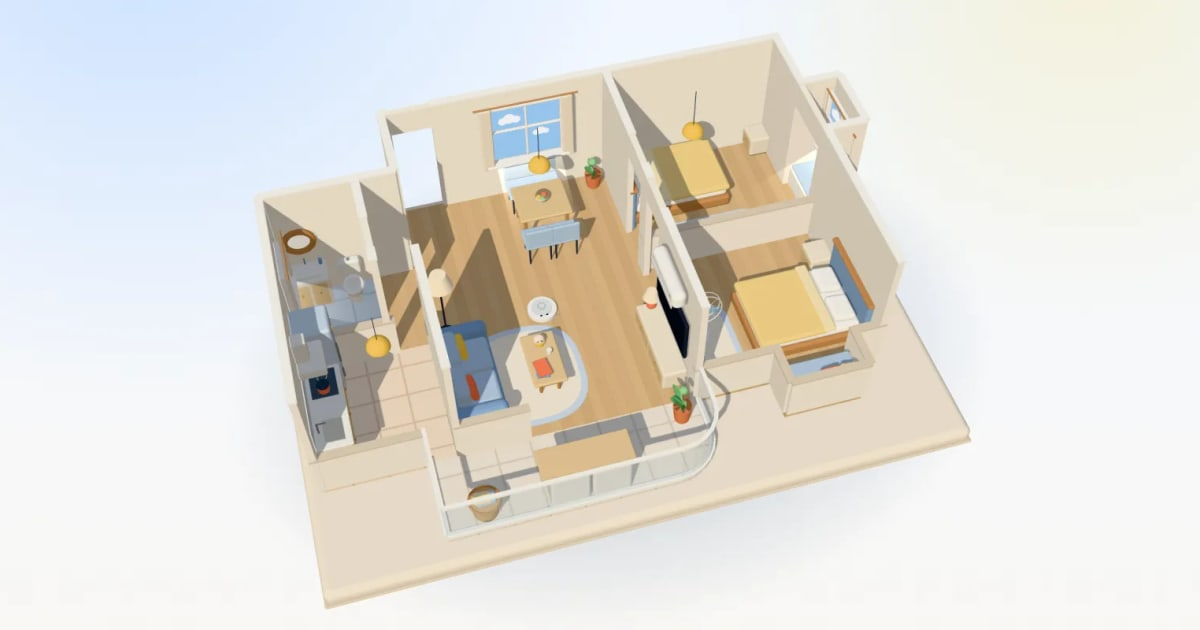
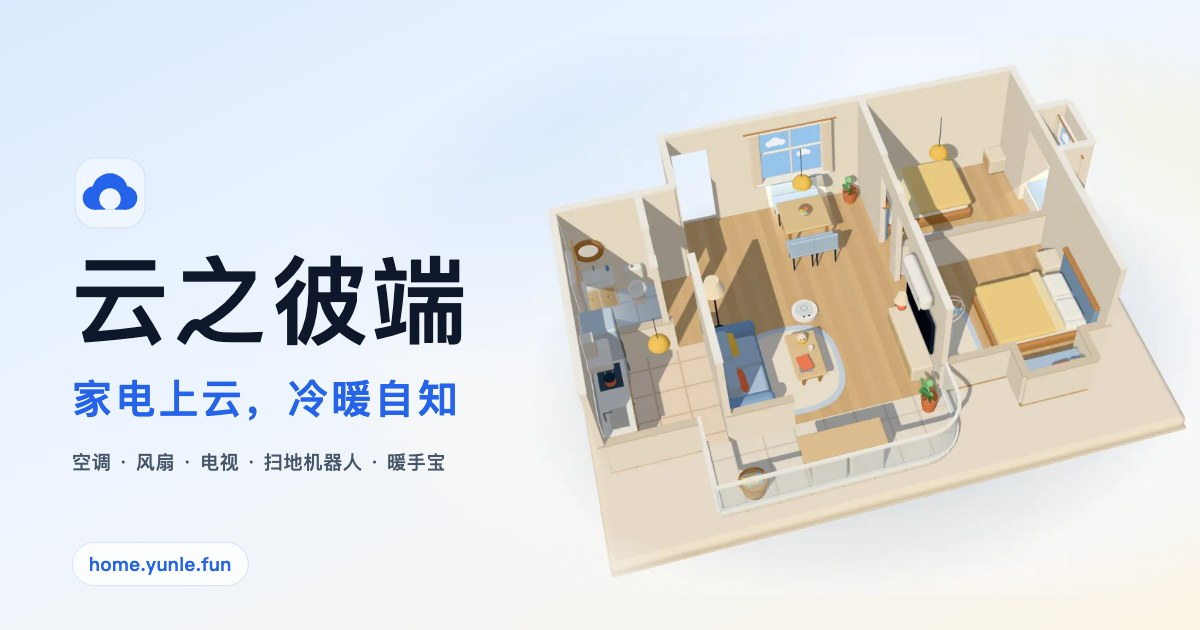
feat(web): share card and per-page link previews; fix device page hydration
- Render a 1200x630 share card (poster, brand mark, 云之彼端, tagline
  家电上云，冷暖自知) with scripts/export-og-image.mjs.
- useShareMeta gives /market and /items/[device] their own og/twitter
  title, description and og:url; the card stays site-wide in app.head.
- Device pages logged "Hydration completed but contains mismatches": the
  Worker's SSR rendered placeholders for plugin glyphs and controls loaded
  through defineAsyncComponent. The registry now keeps loaded modules and
  returns them directly, and the device page awaits its control, so the
  server HTML matches the first client render.

diff --git a/devices/registry.ts b/devices/registry.ts
@@ -24,6 +24,9 @@ export function defineDevicePlugin<K extends DeviceKind>(plugin: DevicePlugin<K>
 
 const plugins = new Map<DeviceKind, AnyDevicePlugin>()
 const asyncComponents = new Map<string, Component>()
+// Modules already loaded render directly: the Worker's SSR does not wait for
+// async wrappers, so only these match between server HTML and hydration.
+const loadedComponents = new Map<string, Component>()
 
 /**
  * Register a device plugin. Registering the same plugin object twice is a
@@ -46,9 +49,11 @@ export function registerDevicePlugin(plugin: AnyDevicePlugin): void {
  */
 export function unregisterDevicePlugin(kind: DeviceKind): void {
   plugins.delete(kind)
-  for (const key of asyncComponents.keys()) {
-    if (key.startsWith(`${kind}:`))
-      asyncComponents.delete(key)
+  for (const cache of [asyncComponents, loadedComponents]) {
+    for (const key of cache.keys()) {
+      if (key.startsWith(`${kind}:`))
+        cache.delete(key)
+    }
   }
 }
 
@@ -79,6 +84,9 @@ export function resolveDevicePluginComponent(kind: DeviceKind, slot: DevicePlugi
   if (!loader)
     return null
   const key = `${kind}:${slot}`
+  const loaded = loadedComponents.get(key)
+  if (loaded)
+    return loaded
   let component = asyncComponents.get(key)
   if (!component) {
     component = markRaw(defineAsyncComponent({ loader, delay: 120 }))
@@ -88,11 +96,26 @@ export function resolveDevicePluginComponent(kind: DeviceKind, slot: DevicePlugi
 }
 
 /**
- * Warm the module cache for a UI slot of every plugin, so the first render
- * resolves within a microtask instead of waiting on the network.
+ * Load one plugin UI slot so later renders use the component directly. Await
+ * it before rendering a slot that must match between SSR and hydration.
+ *
+ * @param kind - The device kind
+ * @param slot - The UI slot to load
+ */
+export async function preloadDevicePluginComponent(kind: DeviceKind, slot: DevicePluginSlot): Promise<void> {
+  const loader = plugins.get(kind)?.components[slot]
+  if (!loader)
+    return
+  const module = await loader()
+  loadedComponents.set(`${kind}:${slot}`, markRaw((module as { default?: Component }).default ?? module))
+}
+
+/**
+ * Load a UI slot of every plugin, so the first render uses the components
+ * directly instead of waiting on the network.
  *
  * @param slot - The UI slot to preload
  */
 export async function preloadDevicePluginComponents(slot: DevicePluginSlot): Promise<void> {
-  await Promise.all(listDevicePlugins().map(plugin => plugin.components[slot]?.()))
+  await Promise.all(listDevicePlugins().map(plugin => preloadDevicePluginComponent(plugin.manifest.kind, slot)))
 }

diff --git a/nuxt.config.ts b/nuxt.config.ts
@@ -1,8 +1,10 @@
 import { fileURLToPath } from 'node:url'
 import { pwa } from './config/pwa'
-import { appDescription, appName } from './constants/index'
+import { appDescription, appName, appTagline } from './constants/index'
 
 const siteOrigin = (process.env.NUXT_PUBLIC_SITE_ORIGIN || 'https://home.yunle.fun').replace(/\/+$/, '')
+// Pages override the title and description with useShareMeta; the card is shared.
+const shareDescription = `${appTagline}。${appDescription}，空调、风扇、电视、扫地机器人与暖手宝都在云上。`
 
 export default defineNuxtConfig({
   compatibilityDate: '2026-07-16',
@@ -109,14 +111,14 @@ export default defineNuxtConfig({
         { property: 'og:site_name', content: appName },
         { property: 'og:locale', content: 'zh_CN' },
         { property: 'og:title', content: appName },
-        { property: 'og:description', content: appDescription },
+        { property: 'og:description', content: shareDescription },
         { property: 'og:image', content: `${siteOrigin}/og-image.jpg` },
         { property: 'og:image:width', content: '1200' },
         { property: 'og:image:height', content: '630' },
-        { property: 'og:image:alt', content: '云之彼端家园的 3D 户型' },
+        { property: 'og:image:alt', content: `${appName}：${appTagline}` },
         { name: 'twitter:card', content: 'summary_large_image' },
         { name: 'twitter:title', content: appName },
-        { name: 'twitter:description', content: appDescription },
+        { name: 'twitter:description', content: shareDescription },
         { name: 'twitter:image', content: `${siteOrigin}/og-image.jpg` },
       ],
     },

diff --git a/tests/device-plugins.test.ts b/tests/device-plugins.test.ts
@@ -10,6 +10,7 @@ import {
   getDevicePlugin,
   installBuiltinDevicePlugins,
   listDevicePlugins,
+  preloadDevicePluginComponent,
   registerDevicePlugin,
   resolveDevicePluginComponent,
   unregisterDevicePlugin,
@@ -80,6 +81,18 @@ describe('device plugin registry', () => {
     expect(resolveDevicePluginComponent('air-conditioner', 'panel')).toBe(resolveDevicePluginComponent('air-conditioner', 'panel'))
     expect(resolveDevicePluginComponent('television', 'panel')).not.toBeNull()
     expect(resolveDevicePluginComponent('fan', 'panel')).toBeNull()
+  })
+
+  it('renders a preloaded slot directly instead of through an async wrapper', async () => {
+    const Glyph = { name: 'TestGlyph', render: () => null }
+    unregisterDevicePlugin('fan')
+    registerDevicePlugin({ ...fanPlugin, components: { ...fanPlugin.components, glyph: async () => ({ default: Glyph }) } })
+    expect(resolveDevicePluginComponent('fan', 'glyph')).not.toBe(Glyph)
+    await preloadDevicePluginComponent('fan', 'glyph')
+    expect(resolveDevicePluginComponent('fan', 'glyph')).toBe(Glyph)
+    await expect(preloadDevicePluginComponent('fan', 'panel')).resolves.toBeUndefined()
+    unregisterDevicePlugin('fan')
+    expect(resolveDevicePluginComponent('fan', 'glyph')).toBeNull()
   })
 
   it('provides a glyph and quick control for every device', () => {

diff --git a/pages/items/[device].vue b/pages/items/[device].vue
@@ -1,6 +1,6 @@
 <script setup lang="ts">
 import type { DeviceKind } from '~/types'
-import { getDevicePlugin } from '~/devices/registry'
+import { getDevicePlugin, preloadDevicePluginComponent } from '~/devices/registry'
 import { isDeviceKind } from '~/utils/device'
 
 // Every device detail page is served by its plugin; unknown or uninstalled kinds 404.
@@ -14,6 +14,18 @@ definePageMeta({
 
 const route = useRoute()
 const deviceId = computed(() => route.params.device as DeviceKind)
+
+useShareMeta(() => {
+  // validate() has already rejected unknown kinds, so the plugin exists.
+  const { name, description } = getDevicePlugin(deviceId.value)!.manifest
+  return { title: name, description: `${description}。${name}已入住云之彼端，联网即开，不费一度电。` }
+})
+
+// Load the control before rendering so the server HTML already contains it.
+await Promise.all([
+  preloadDevicePluginComponent(deviceId.value, 'panel'),
+  preloadDevicePluginComponent(deviceId.value, 'quickControl'),
+])
 </script>
 
 <template>

diff --git a/composables/share-meta.ts b/composables/share-meta.ts
@@ -1,0 +1,23 @@
+import type { MaybeRefOrGetter } from 'vue'
+import { toValue } from 'vue'
+import { appName } from '~/constants'
+
+/**
+ * Title, description and canonical URL for a page's link preview. The card
+ * image and site-wide tags come from `app.head` in nuxt.config.ts.
+ */
+export function useShareMeta(meta: MaybeRefOrGetter<{ title: string, description: string }>) {
+  const route = useRoute()
+  const origin = String(useRuntimeConfig().public.siteOrigin).replace(/\/+$/, '')
+  const title = () => `${toValue(meta).title} · ${appName}`
+  const description = () => toValue(meta).description
+
+  useSeoMeta({
+    description,
+    ogTitle: title,
+    ogDescription: description,
+    ogUrl: () => `${origin}${route.path}`,
+    twitterTitle: title,
+    twitterDescription: description,
+  })
+}

diff --git a/pages/market.vue b/pages/market.vue
@@ -1,6 +1,10 @@
 <script setup lang="ts">
 definePageMeta({ layout: 'home' })
 useHead({ title: '家电市场' })
+useShareMeta({
+  title: '家电市场',
+  description: '为云端家园挑选空调、风扇、电视、扫地机器人与暖手宝。一键安装，搬进房间就能用。',
+})
 </script>
 
 <template>

diff --git a/constants/index.ts b/constants/index.ts
@@ -1,2 +1,4 @@
 export const appName = '云之彼端'
 export const appDescription = '云之彼端的可编辑智能家园'
+/** One-line pitch for link previews and the share card. */
+export const appTagline = '家电上云，冷暖自知'
